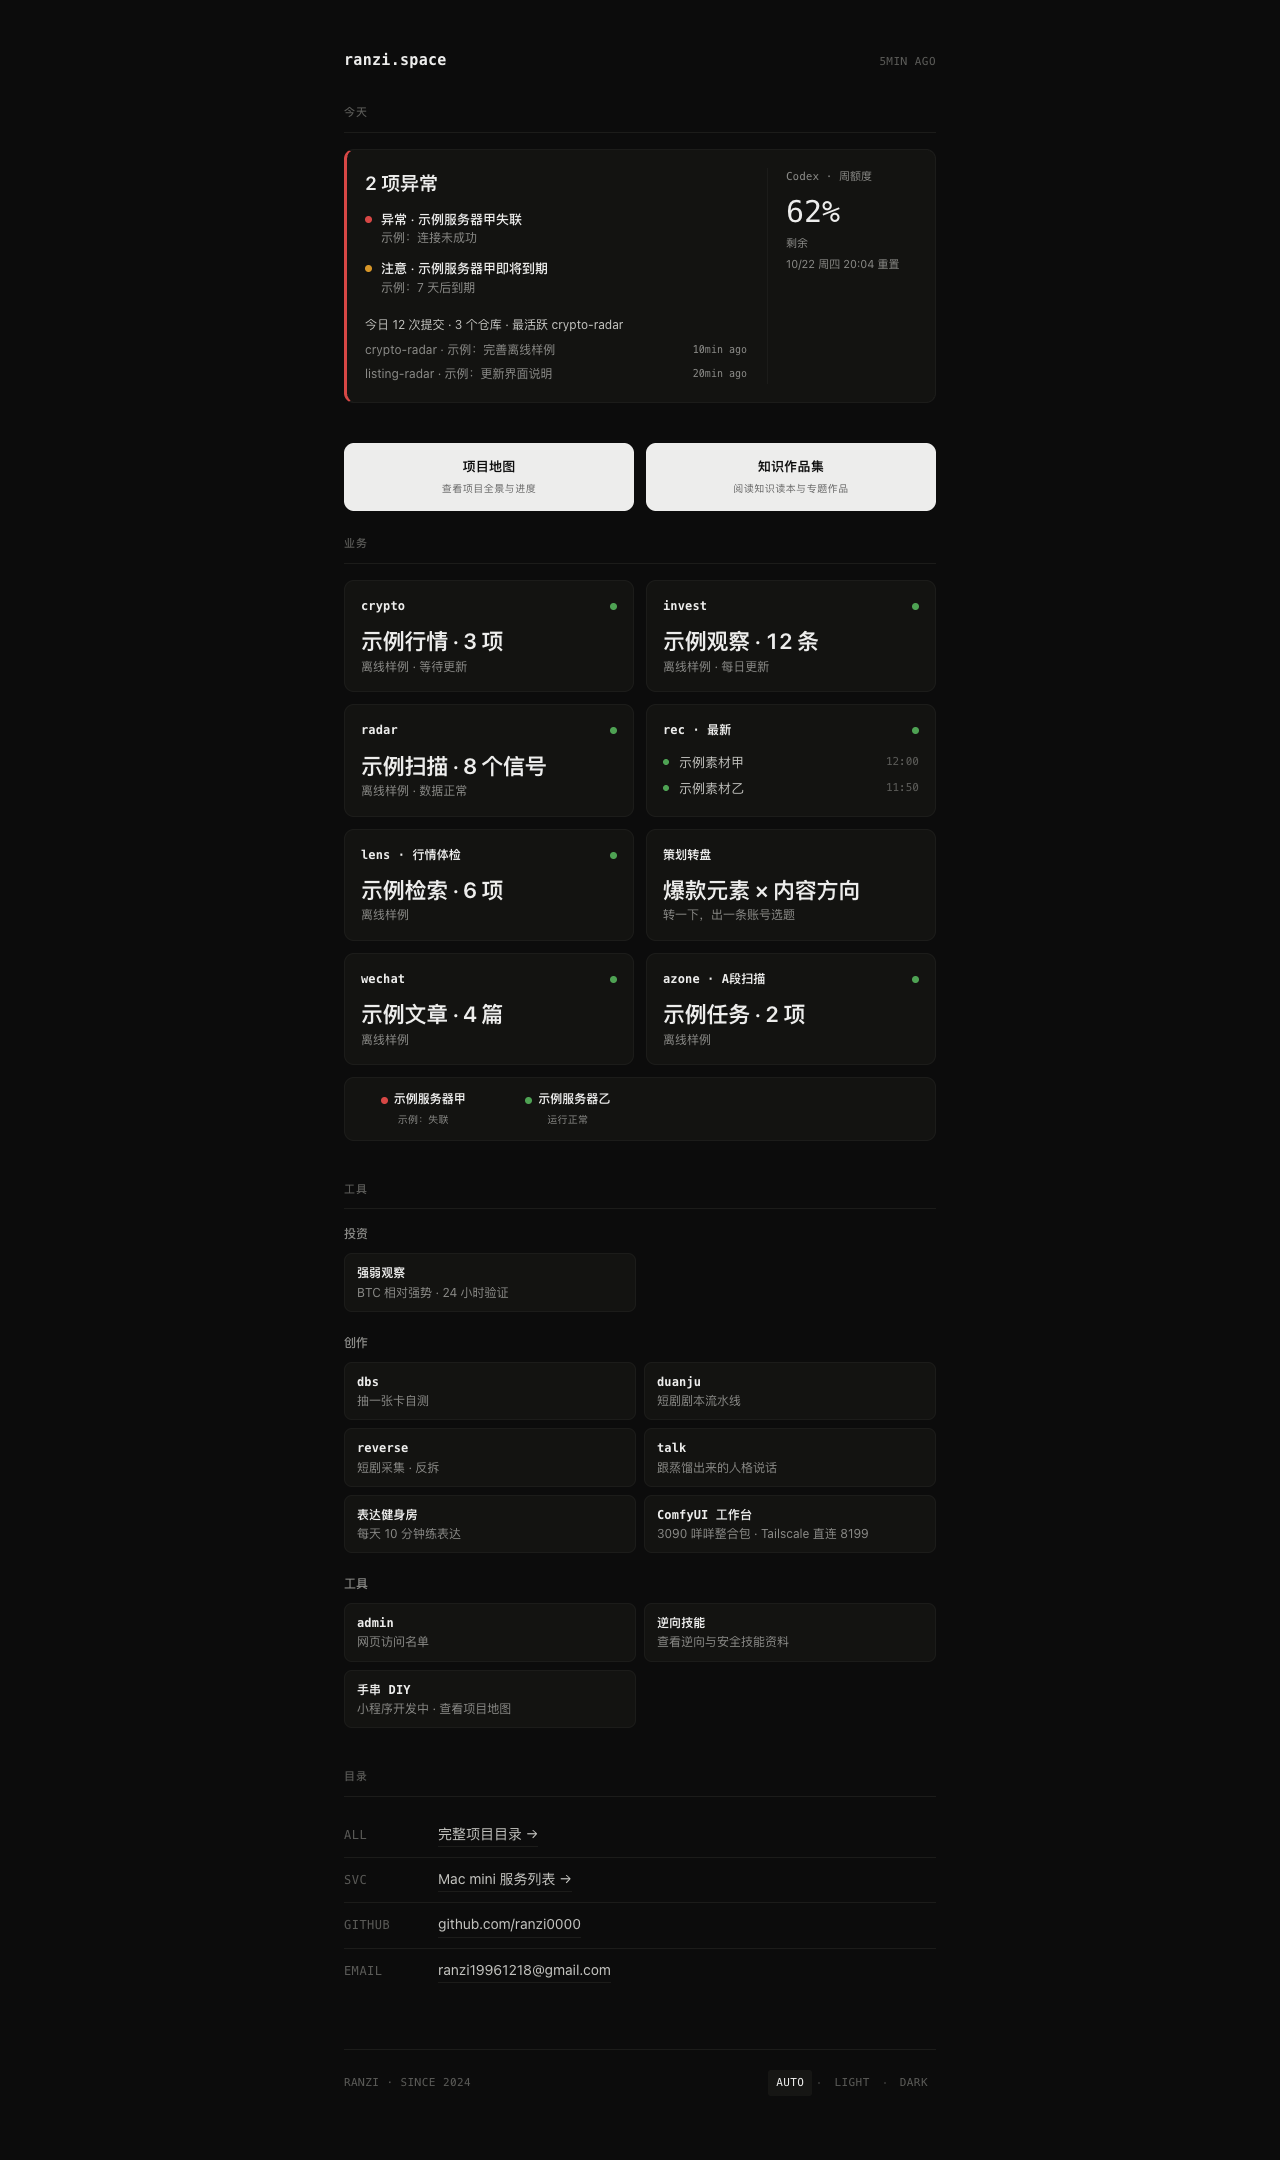
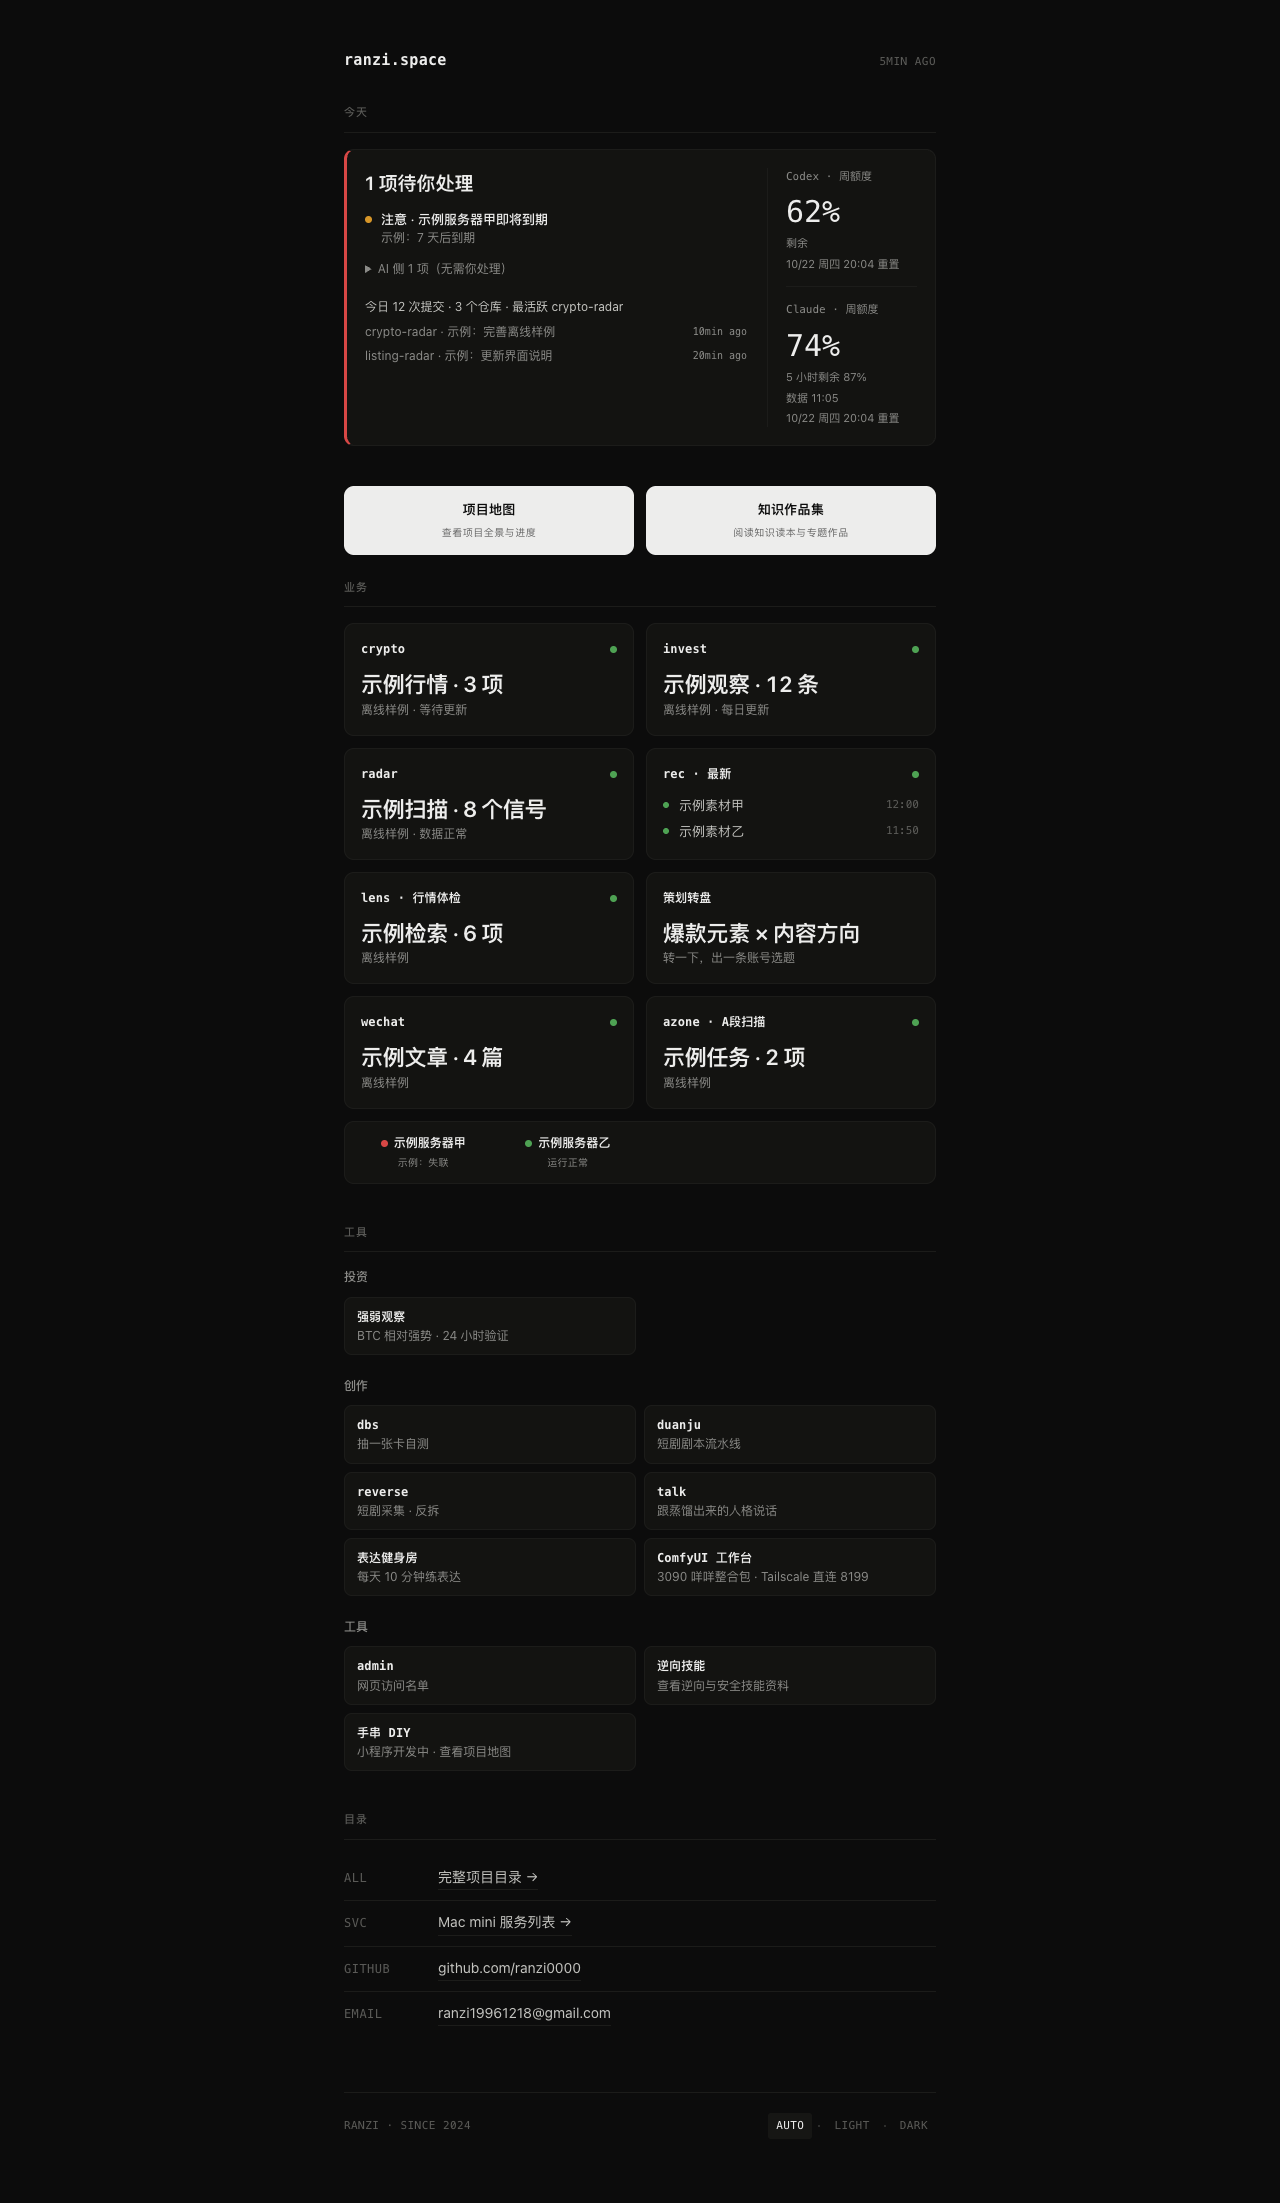
额度墙：Codex 与 Claude 两行；修正截图验收中过时的异常断言

diff --git a/index.html b/index.html
@@ -130,13 +130,14 @@ body.stale .server-strip { opacity: 0.55; }
 .today-latest li { display: flex; gap: 10px; font-size: 12px; margin-top: 5px; color: var(--muted); }
 .commit-title { flex: 1; min-width: 0; overflow-wrap: anywhere; }
 .today-latest time { flex-shrink: 0; font-family: var(--font-mono); font-size: 10px; padding-top: 2px; }
-.quota-block { border-left: 1px solid var(--border); padding-left: 18px; }
+.quota-block { min-width: 0; border-left: 1px solid var(--border); padding-left: 18px; }
+.quota-row + .quota-row { margin-top: 14px; padding-top: 14px; border-top: 1px solid var(--border); }
 .quota-label { margin: 0; font-family: var(--font-mono); color: var(--muted); font-size: 11px; }
 .quota-value { font-family: var(--font-mono); font-size: 30px; line-height: 1.3; margin: 7px 0 0; color: var(--fg); }
-.quota-state, .quota-reset { margin: 3px 0 0; font-size: 11px; color: var(--muted); }
+.quota-state, .quota-reset, .quota-short { margin: 3px 0 0; font-size: 11px; color: var(--muted); overflow-wrap: anywhere; }
 .tool-group + .tool-group { margin-top: 22px; }
 .tool-heading { font-family: var(--font-mono); font-size: 12px; font-weight: 500; color: var(--muted); margin: 0 0 9px; }
-@media (max-width: 540px) {
+@media (max-width: 640px) {
   .today-panel { grid-template-columns: minmax(0, 1fr); gap: 16px; padding: 16px; }
   .quota-block { border-left: 0; border-top: 1px solid var(--border); padding: 12px 0 0; }
   .quota-value { display: inline-block; font-size: 25px; margin: 4px 8px 0 0; }
@@ -491,11 +492,20 @@ footer .meta { text-transform: uppercase; }
         <p class="today-activity" id="today-activity">提交动态读取中</p>
         <ul class="today-latest" id="today-latest"></ul>
       </div>
-      <aside class="quota-block" aria-label="Codex 周额度">
-        <p class="quota-label">Codex · 周额度</p>
-        <p class="quota-value" id="quota-value">—</p>
-        <p class="quota-state" id="quota-state">读取中</p>
-        <p class="quota-reset" id="quota-reset"></p>
+      <aside class="quota-block" aria-label="额度">
+        <div class="quota-row">
+          <p class="quota-label">Codex · 周额度</p>
+          <p class="quota-value" id="quota-value">—</p>
+          <p class="quota-state" id="quota-state">读取中</p>
+          <p class="quota-reset" id="quota-reset"></p>
+        </div>
+        <div class="quota-row">
+          <p class="quota-label">Claude · 周额度</p>
+          <p class="quota-value" id="quota-claude-value">—</p>
+          <p class="quota-short" id="quota-claude-short">5 小时剩余 —</p>
+          <p class="quota-state" id="quota-claude-state">读取中</p>
+          <p class="quota-reset" id="quota-claude-reset"></p>
+        </div>
       </aside>
     </div>
   </section>

diff --git a/assets/home/today.js b/assets/home/today.js
@@ -41,18 +41,22 @@ export function formatReset(seconds) {
   return `${d.getMonth() + 1}/${d.getDate()} 周${'日一二三四五六'[d.getDay()]} ${pad(d.getHours())}:${pad(d.getMinutes())} 重置`;
 }
 
-export function quotaView(quota, now = Date.now()) {
+// An explicit maximum age is inclusive; omitted retains Codex's legacy 1h cutoff.
+export function quotaView(quota, now = Date.now(), minutes = [10080], maxAgeSeconds = null) {
   const labels = { stale: '旧数据', expired: '已过期', unavailable: '未读取到' };
   let state = quota?.state;
   if (!quota || 'error' in quota || !['fresh', 'stale', 'expired', 'unavailable'].includes(state)) {
     return { label: '未读取到', remaining: null, reset: '' };
   }
-  const window = quota.windows?.find(w => w.minutes === 10080);
+  const windows = Array.isArray(quota.windows) ? quota.windows : [];
+  const window = minutes.map(duration => windows.find(w => w?.minutes === duration)).find(Boolean);
   const age = now / 1000 - quota.sampled_at;
+  if (maxAgeSeconds !== null && !Number.isFinite(quota.sampled_at)) state = 'expired';
   if (['fresh', 'stale'].includes(state) && Number.isFinite(quota.sampled_at)) {
     // 新鲜度以采集器给的 state 为准（它每 10 分钟才真读一次，summary 又 5 分钟一推，采样常有 10–15 分钟旧）；
-    // 这里只兜底：超过 1 小时或比本机时钟超前 5 分钟以上（时钟异常）一律视为过期。
-    if (age < -300 || age >= 3600) state = 'expired';
+    // Codex 保留原有 >= 1 小时边界；其他来源可指定包含边界的最大可信年龄。
+    const tooOld = maxAgeSeconds === null ? age >= 3600 : age > maxAgeSeconds;
+    if (age < -300 || tooOld) state = 'expired';
   }
   if (['fresh', 'stale'].includes(state) && window?.resets_at && window.resets_at <= now / 1000) state = 'expired';
   const remaining = ['fresh', 'stale'].includes(state) && Number.isFinite(window?.remaining)

diff --git a/assets/home/render.js b/assets/home/render.js
@@ -276,4 +276,14 @@ function renderToday(data) {
   document.getElementById('quota-value').textContent = quota.remaining === null ? '—' : quota.remaining + '%';
   document.getElementById('quota-state').textContent = quota.label;
   document.getElementById('quota-reset').textContent = quota.reset;
+  var claude = quotaView(data?.quota_claude, Date.now(), [10080], 21600);
+  var short = quotaView(data?.quota_claude, Date.now(), [300], 21600);
+  var available = claude.remaining !== null;
+  var sampled = new Date(data?.quota_claude?.sampled_at * 1000);
+  var sampleTime = String(sampled.getHours()).padStart(2, '0') + ':' + String(sampled.getMinutes()).padStart(2, '0');
+  document.getElementById('quota-claude-value').textContent = available ? claude.remaining + '%' : '—';
+  document.getElementById('quota-claude-short').textContent = '5 小时剩余 ' + (short.remaining === null ? '—' : short.remaining + '%');
+  document.getElementById('quota-claude-state').textContent = !available ? '终端 Claude 未运行'
+    : claude.label === '旧数据' ? '数据 ' + sampleTime : claude.label;
+  document.getElementById('quota-claude-reset').textContent = available ? claude.reset : '';
 }

diff --git a/scripts/verify_p3.py b/scripts/verify_p3.py
@@ -1,5 +1,5 @@
 #!/opt/homebrew/opt/python@3.11/bin/python3.11
-"""P3: 4 fixtures × 2 widths × 2 themes in a new headless browser only."""
+"""P3/T1: synthetic quota states × 2 widths × 2 themes; headless only."""
 import json
 import os
 from pathlib import Path
@@ -10,6 +10,12 @@ from verify_p1 import FROZEN_CLOCK, serve
 
 ROOT = Path(__file__).resolve().parents[1]
 EXPECTED = {"ok": "ok", "alerts": "alerts", "unknown": "unknown", "error": "unknown"}
+CLAUDE = {
+    "ok": ("74%", "5 小时剩余 87%", "剩余"),
+    "alerts": ("74%", "5 小时剩余 87%", "数据 11:05"),
+    "unknown": ("—", "5 小时剩余 —", "终端 Claude 未运行"),
+    "error": ("—", "5 小时剩余 —", "终端 Claude 未运行"),
+}
 
 
 def main():
@@ -44,8 +50,38 @@ def main():
                             assert page.locator('#quota-state').inner_text() == ({'unknown': '旧数据', 'error': '未读取到'}.get(fixture, '剩余'))
                             if fixture != 'error':
                                 assert page.locator('#quota-reset').inner_text() == '10/22 周四 20:04 重置'
+                            value, short, label = CLAUDE[fixture]
+                            assert page.locator('#quota-claude-value').inner_text() == value
+                            assert page.locator('#quota-claude-short').inner_text() == short
+                            assert page.locator('#quota-claude-state').inner_text() == label
+                            assert page.locator('#quota-claude-reset').inner_text() == (
+                                '10/22 周四 20:04 重置' if fixture in ('ok', 'alerts') else '')
+                            assert page.locator('.quota-block').get_attribute('aria-label') == '额度'
+                            rows = page.locator('.quota-row')
+                            assert rows.count() == 2
+                            assert rows.nth(0).is_visible() and rows.nth(1).is_visible()
+                            codex_box, claude_box = rows.nth(0).bounding_box(), rows.nth(1).bounding_box()
+                            assert claude_box['y'] >= codex_box['y'] + codex_box['height']
+                            for selector in ('#quota-value', '#quota-state', '#quota-reset',
+                                             '#quota-claude-value', '#quota-claude-short',
+                                             '#quota-claude-state', '#quota-claude-reset'):
+                                # Both palettes must keep the text legible against the card.
+                                contrast = page.locator(selector).evaluate("""el => {
+                                    const rgb = color => color.match(/[\\d.]+/g).slice(0, 3).map(Number);
+                                    const luminance = color => rgb(color).map(v => {
+                                        v /= 255;
+                                        return v <= .04045 ? v / 12.92 : ((v + .055) / 1.055) ** 2.4;
+                                    }).reduce((sum, v, i) => sum + v * [.2126, .7152, .0722][i], 0);
+                                    const fg = luminance(getComputedStyle(el).color);
+                                    const bg = luminance(getComputedStyle(document.querySelector('.today-panel')).backgroundColor);
+                                    return (Math.max(fg, bg) + .05) / (Math.min(fg, bg) + .05);
+                                }""")
+                                assert contrast >= 4.5, f'{selector}: contrast {contrast:.2f}'
                             if fixture in ('alerts', 'unknown'):
-                                assert 'bad' in page.locator('#today-alerts .status-dot').first.get_attribute('class')
+                                # 假数据里「服务器失联」归 AI 侧（折叠行），用户列表只剩「续费」一条
+                                assert page.locator('#today-alerts li').count() == 1
+                                assert 'warn' in page.locator('#today-alerts .status-dot').first.get_attribute('class')
+                                assert page.locator('#today-ai').is_visible()
                             assert page.evaluate('document.documentElement.scrollWidth <= innerWidth')
                             copy = page.locator('.today-copy').bounding_box()
                             quota = page.locator('.quota-block').bounding_box()

diff --git a/PROGRESS.md b/PROGRESS.md
@@ -1,4 +1,13 @@
-# 当前状态（2026-10-17，P3 首页 UI 已上线）
+# 当前状态（2026-10-17，T1 双来源额度待协调者集成）
+
+- 范围：仅第二轮计划 T1；在 `ranzi-space-r2` worktree 修改，未 add/commit/新建分支/push/部署，未操作浏览器、Kindle 或 LaunchAgent。
+- 已完成：首页额度区为 Codex / Claude 上下两行，`aria-label="额度"`；Claude 显示周剩余、5 小时剩余、状态和周重置时间，stale 显示本地快照时间，过期或不可用显示「— / 终端 Claude 未运行」。`quotaView` 可选窗口优先列表和可信年龄，默认 Codex 逻辑及原测试断言保留。手机断点从 540px 调整为 640px。
+- 锚点核对：today.js、render.js、index.html 位置和现有节点与计划相符；原 Codex 实际在年龄 >=3600 秒时过期，保留这一边界（计划写“超过 3600 秒”）。Claude 显式六小时上限包含边界。
+- 验证：指定 `node --test tests/*.test.mjs` 退出 0，20 passed / 0 failed；额外预览服务器离线测试 5 tests OK，截图脚本语法和 diff 空白检查通过。姊妹采集器指定 unittest 48 tests OK。fixture 仅新增假 Claude 数据。
+- 截图脚本：`scripts/verify_p3.py` 已扩充 Claude fresh/stale/expired/unavailable 文案、重置时间、双行纵向布局、深浅色对比度及原无横向滚动断言，仍为 390/1280px × 深浅 × 四种 fixture 共 16 组。
+- 未验收：dev_server 本地端口探测报 PermissionError（Errno 1 / Operation not permitted）；截图脚本未运行、未产出新截图、未证明实际浏览器视觉通过。协调者可在允许绑定端口的环境执行既有截图命令；真实数据及生产发布亦待协调者处理。
+
+# 历史状态（2026-10-17，P3 首页 UI 已上线）
 
 - 范围：`feat/p3-home-ui`，仅 P3；首页重排为今天 / 业务 / 工具 / 目录，主要入口位于今天与业务之间。业务保留 7 张活数据卡、1 张静态大卡及服务器状态条，10 个纯入口按投资 / 创作 / 工具分组。
 - 已完成：独立纯函数实现三态、异常排序及额度时效 / 本地重置时间；15 秒刷新复算状态，离线和来源缺失保留异常。18 个指定登记只增加 group，并改两处重复 order，其他字节有离线测试约束。
